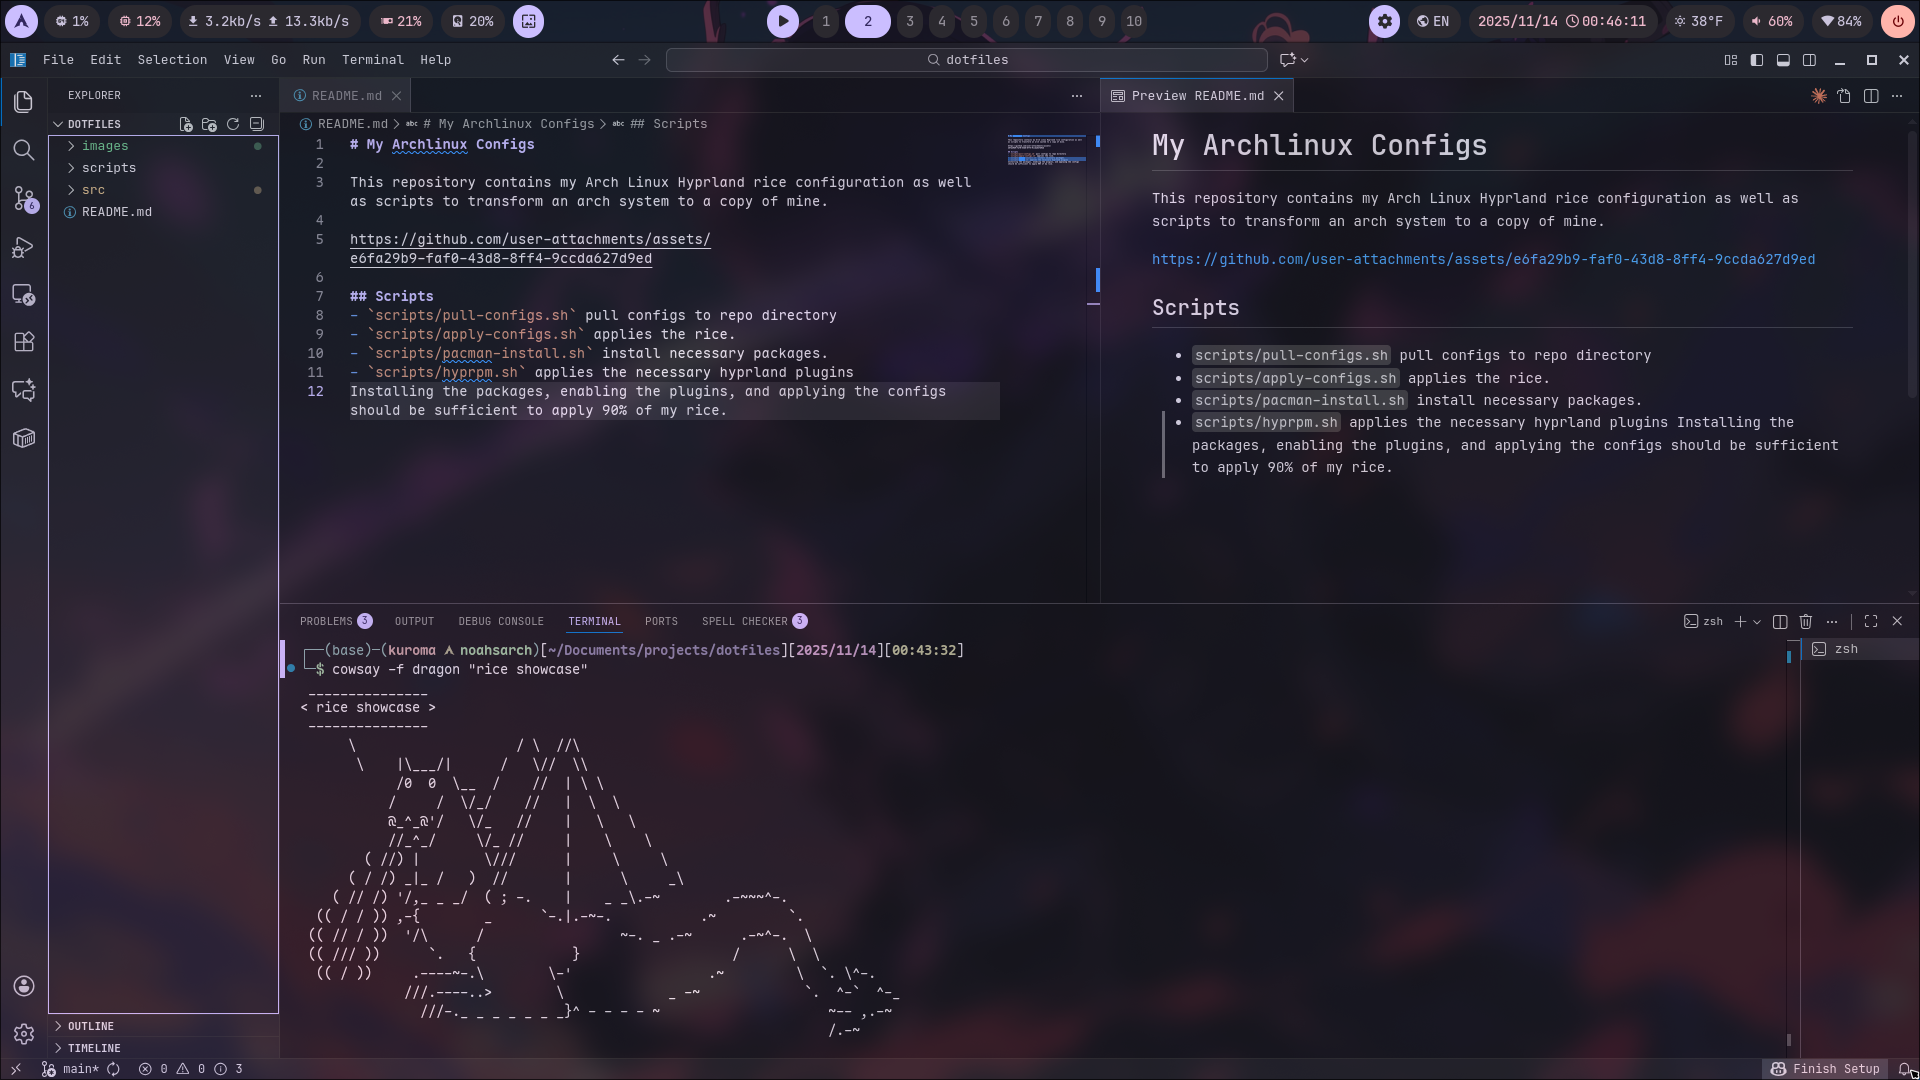
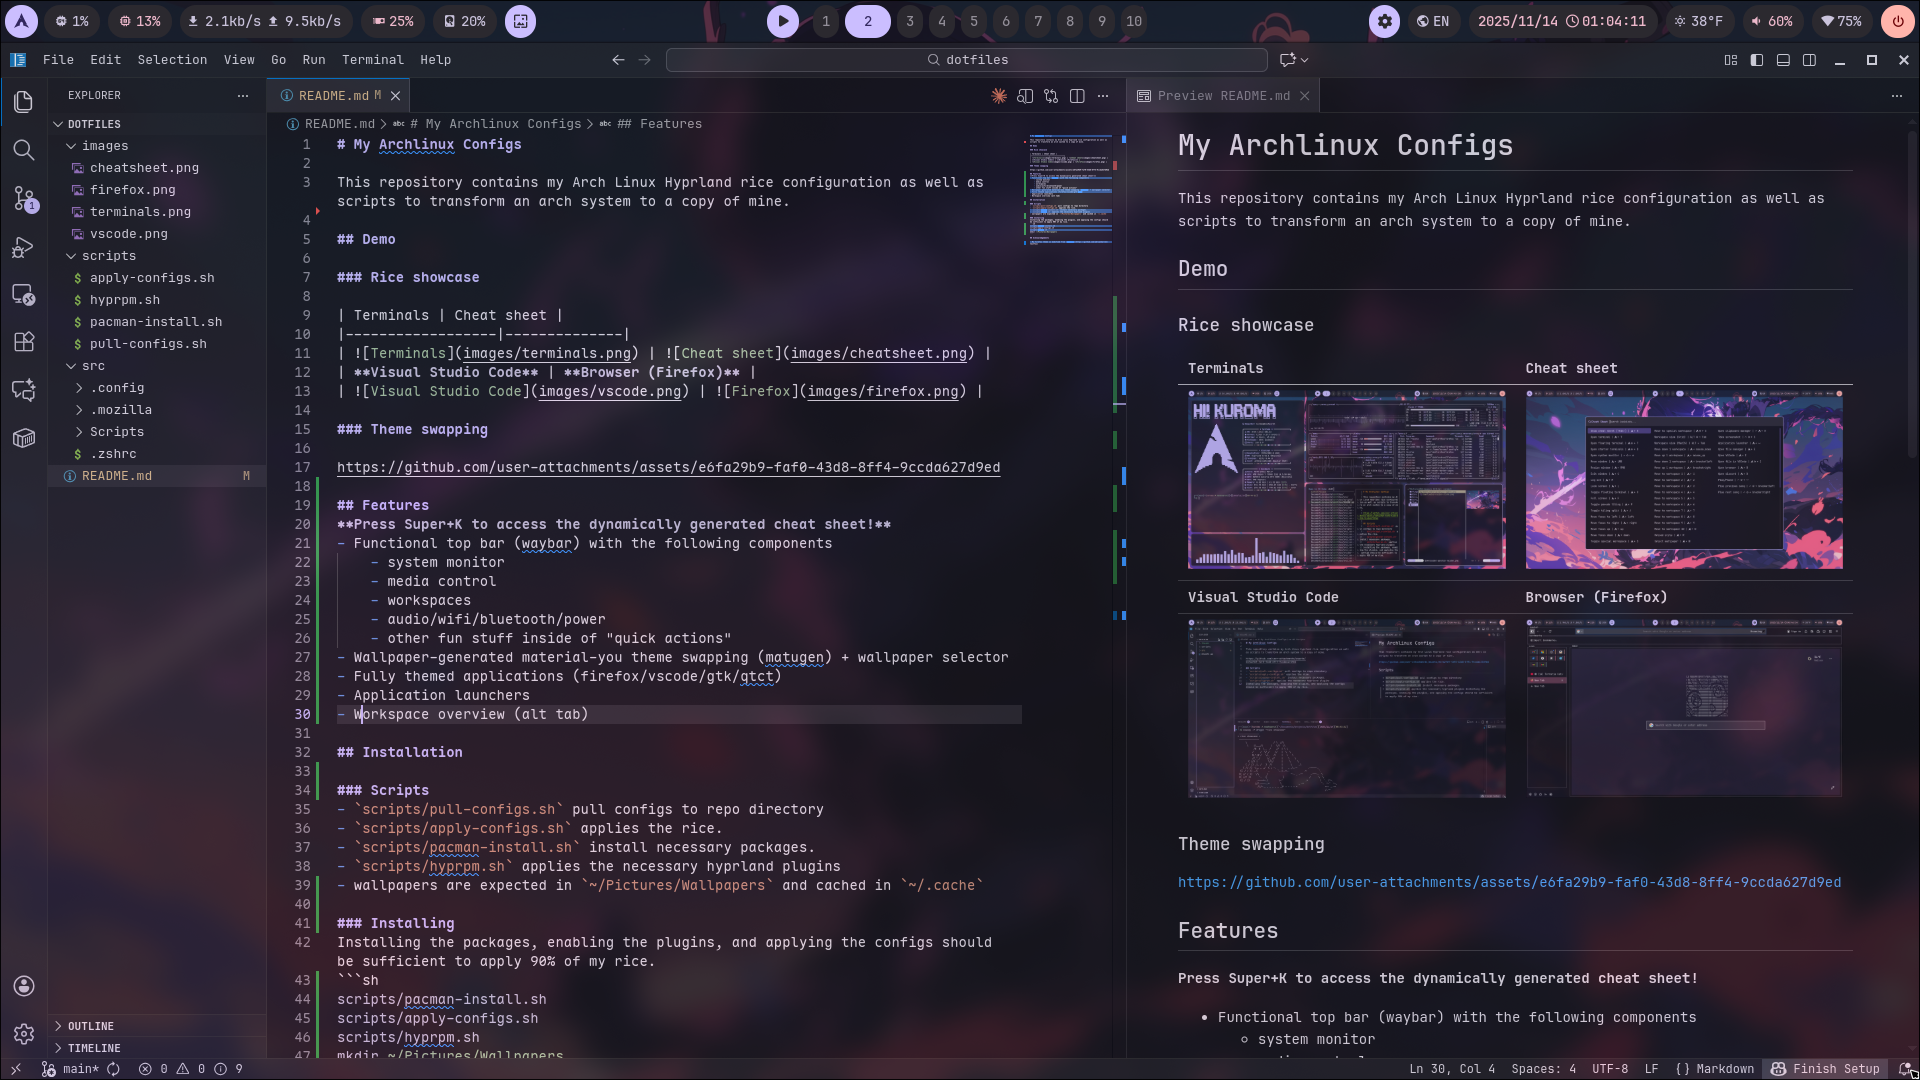
rearranged readme contents

diff --git a/README.md b/README.md
@@ -2,19 +2,6 @@
 
 This repository contains my Arch Linux Hyprland rice configuration as well as scripts to transform an arch system to a copy of mine.
 
-## Features
-**Press Super+K to access the dynamically generated cheat sheet!**
-- functional top bar (waybar) with the following components
-    - system monitor
-    - media control
-    - workspaces
-    - audio/wifi/bluetooth/power
-    - other fun stuff inside of "quick actions"
-- wallpaper-generated material-you theme swapping (matugen) + wallpaper selector
-- fully themed applications (firefox/vscode/gtk/qtct)
-- application launchers
-- workspace overview (alt tab)
-
 ## Demo
 
 ### Rice showcase
@@ -29,13 +16,37 @@ This repository contains my Arch Linux Hyprland rice configuration as well as sc
 
 https://github.com/user-attachments/assets/e6fa29b9-faf0-43d8-8ff4-9ccda627d9ed
 
+## Features
+**Press Super+K to access the dynamically generated cheat sheet!**
+- Functional top bar (waybar) with the following components
+    - system monitor
+    - media control
+    - workspaces
+    - audio/wifi/bluetooth/power
+    - other fun stuff inside of "quick actions"
+- Wallpaper-generated material-you theme swapping (matugen) + wallpaper selector
+- Fully themed applications (firefox/vscode/gtk/qtct)
+- Application launchers
+- Workspace overview (alt tab)
+
 ## Installation
+
+### Scripts
 - `scripts/pull-configs.sh` pull configs to repo directory
 - `scripts/apply-configs.sh` applies the rice.
 - `scripts/pacman-install.sh` install necessary packages.
 - `scripts/hyprpm.sh` applies the necessary hyprland plugins
+- wallpapers are expected in `~/Pictures/Wallpapers` and cached in `~/.cache`
+
+### Installing
 Installing the packages, enabling the plugins, and applying the configs should be sufficient to apply 90% of my rice.
+```sh
+scripts/pacman-install.sh
+scripts/apply-configs.sh
+scripts/hyprpm.sh
+mkdir ~/Pictures/Wallpapers
+```
 
 ## Acknowledgements
 
-- my firefox theme is modified from [textfox](https://github.com/adriankarlen/textfox) 
+- My firefox theme is modified from [textfox](https://github.com/adriankarlen/textfox) 
